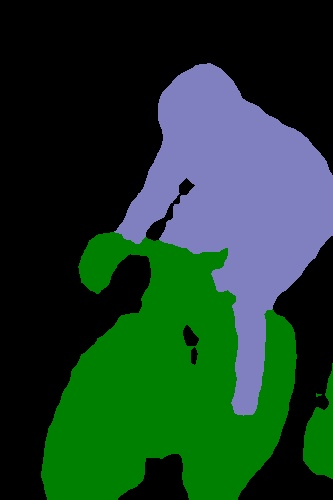
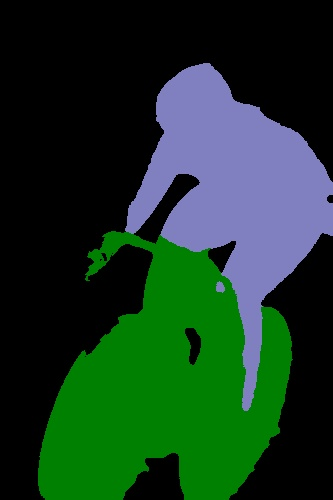
add crf

diff --git a/test.py b/test.py
@@ -3,15 +3,17 @@ import os.path as osp
 import pprint
 import numpy as np
 
+import _init_path
 import torch
 from torch.utils.data import DataLoader
 from torch import nn
 
 from datasets.voc_loader import VOCDataset
 from utils.config import cfg, cfg_from_file
-from utils.tools import random_scale_and_msc, msc_label
+from utils.tools import random_scale_and_msc, msc_label, dense_crf
 from models.deeplab import DeepLab
 from collections import OrderedDict
+import tqdm
 
 
 
@@ -27,7 +29,7 @@ def parse_args():
                     help='vgg16, res101',
                     default='res101', type=str)
     parser.add_argument('--model', dest='model',
-                      help='pretrained model', default="/VOC12_scenes_16000.pth",
+                      help='pretrained model', default="models/7310.pth",
                       type=str)
     args = parser.parse_args()
     return args
@@ -54,13 +56,23 @@ def eval(datalodaer, net, hist):
                 img, img_75, img_50 = img.float(), img_75.float(), img_50.float()
 
             out = net(img, img_75, img_50)[-1]
+            mean = np.array([104.00698793, 116.66876762, 122.67891434]).reshape(1, 1, 3)
             interp = nn.UpsamplingBilinear2d(size=(img.size()[2], img.size()[3]))
-            pred = interp(out).cpu().data[0].numpy()
-            pred = pred[:, :image.shape[0], :image.shape[1]]
-            pred = pred.transpose(1, 2, 0)
-            pred = np.argmax(pred, axis=2)
+            if cfg.TEST.IF_CRF:
+                softmax = nn.Softmax2d()
+                pred = softmax(interp(out)).cpu().numpy()[0]
+                pred = pred[:, :image.shape[0], :image.shape[1]]
+                origin_img = image + mean
+                pred_crf = dense_crf(probs=pred, n_classes=num_classes, img=origin_img.astype('uint8'))
+                pred_crf = np.argmax(pred_crf, axis=2)
 
-            hist += compute_iou(label.numpy()[0, :, :], pred, num_classes)
+                hist += compute_iou(label.numpy()[0, :, :], pred_crf, num_classes)
+            else:
+                pred = interp(out).cpu().numpy()[0]
+                pred = pred[:, :image.shape[0], :image.shape[1]]
+                pred = np.argmax(pred.transpose(1, 2, 0), axis=2)
+
+                hist += compute_iou(label.numpy()[0, :, :], pred, num_classes)
     miou = np.diag(hist) / (hist.sum(1) + hist.sum(0) - np.diag(hist))
     print("Mean iou = %.2f%%" % (np.sum(miou) * 100 / len(miou)))
 
@@ -88,21 +100,21 @@ if __name__ == "__main__":
     if cfg.CUDA: net = net.cuda()
     net.eval()
 
-    for i in range(25, 31):
-        # model = args.model
-        model = 'dmodels/VOC12_%d000.pth' % int(i)
-        checkpoint = torch.load(model)
-        # net.load_state_dict(checkpoint)
-        net.load_state_dict(checkpoint['model'])
-        hist = np.zeros((num_classes, num_classes))
-        print("Model Path%s: " % model)
-        eval(valloader, net, hist)
+    # for i in range(30, 41):
+    #     # model = args.model
+    #     model = 'dmodels/VOC12_%d000.pth' % int(i)
+    #     checkpoint = torch.load(model)
+    #     # net.load_state_dict(checkpoint)
+    #     net.load_state_dict(checkpoint['model'])
+    #     hist = np.zeros((num_classes, num_classes))
+    #     print("Model Path%s: " % model)
+    #     eval(valloader, net, hist)
 
-    # model = args.model
-    # # model = 'dmodels/VOC12_%d000.pth' % int(i)
-    # checkpoint = torch.load(model)
+    model = args.model
+    # model = 'dmodels/VOC12_%d000.pth' % int(i)
+    checkpoint = torch.load(model)
     # net.load_state_dict(checkpoint)
-    # # net.load_state_dict(checkpoint['model'])
-    # hist = np.zeros((num_classes, num_classes))
-    # print("Model Path%s: " % model)
-    # eval(valloader, net, hist)
+    net.load_state_dict(checkpoint['model'])
+    hist = np.zeros((num_classes, num_classes))
+    print("Model Path: %s " % model)
+    eval(valloader, net, hist)

diff --git a/lib/utils/tools.py b/lib/utils/tools.py
@@ -6,6 +6,7 @@ import numpy as np
 import torch
 
 from utils.config import cfg
+import pydensecrf.densecrf as dcrf
 
 def random_scale_and_msc(image, lbl, fixed_scales, scales, aug=True):
     """
@@ -31,7 +32,6 @@ def random_scale_and_msc(image, lbl, fixed_scales, scales, aug=True):
 
     return img, img_75, img_50
 
-
 def msc_label(lbl, s1, s2, s3):
     lbl[lbl == 255] = 0
 
@@ -45,7 +45,6 @@ def msc_label(lbl, s1, s2, s3):
     label_50 = torch.from_numpy(np.array(label_50))
 
     return label, label_75, label_50
-
 
 def adjust_learning_rate(optimizer, iter, lr):
     """
@@ -68,6 +67,55 @@ def adjust_learning_rate(optimizer, iter, lr):
         return cfg.TRAIN.LEARNING_RATE * s
     else:
         return 0.1 * lr
+
+# use code in https://github.com/DrSleep/tensorflow-deeplab-resnet/
+def dense_crf(probs, n_classes, img=None, n_iters=10,
+              sxy_gaussian=(1, 1), compat_gaussian=4,
+              kernel_gaussian=dcrf.DIAG_KERNEL,
+              normalisation_gaussian=dcrf.NORMALIZE_SYMMETRIC,
+              sxy_bilateral=(49, 49), compat_bilateral=5,
+              srgb_bilateral=(13, 13, 13),
+              kernel_bilateral=dcrf.DIAG_KERNEL,
+              normalisation_bilateral=dcrf.NORMALIZE_SYMMETRIC):
+    """DenseCRF over unnormalised predictions.
+       More details on the arguments at https://github.com/lucasb-eyer/pydensecrf.
+
+    Args:
+      probs: class probabilities per pixel.
+      img: if given, the pairwise bilateral potential on raw RGB values will be computed.
+      n_iters: number of iterations of MAP inference.
+      sxy_gaussian: standard deviations for the location component of the colour-independent term.
+      compat_gaussian: label compatibilities for the colour-independent term (can be a number, a 1D array, or a 2D array).
+      kernel_gaussian: kernel precision matrix for the colour-independent term (can take values CONST_KERNEL, DIAG_KERNEL, or FULL_KERNEL).
+      normalisation_gaussian: normalisation for the colour-independent term (possible values are NO_NORMALIZATION, NORMALIZE_BEFORE, NORMALIZE_AFTER, NORMALIZE_SYMMETRIC).
+      sxy_bilateral: standard deviations for the location component of the colour-dependent term.
+      compat_bilateral: label compatibilities for the colour-dependent term (can be a number, a 1D array, or a 2D array).
+      srgb_bilateral: standard deviations for the colour component of the colour-dependent term.
+      kernel_bilateral: kernel precision matrix for the colour-dependent term (can take values CONST_KERNEL, DIAG_KERNEL, or FULL_KERNEL).
+      normalisation_bilateral: normalisation for the colour-dependent term (possible values are NO_NORMALIZATION, NORMALIZE_BEFORE, NORMALIZE_AFTER, NORMALIZE_SYMMETRIC).
+
+    Returns:
+      Refined predictions after MAP inference.
+    """
+    c, h, w = probs.shape
+
+    probs = probs.copy(order='C')  # Need a contiguous array.
+
+    d = dcrf.DenseCRF2D(w, h, n_classes)  # Define DenseCRF model.
+    U = -np.log(probs)  # Unary potential.
+    U = U.reshape((n_classes, -1))  # Needs to be flat.
+    d.setUnaryEnergy(U)
+    d.addPairwiseGaussian(sxy=sxy_gaussian, compat=compat_gaussian,
+                          kernel=kernel_gaussian, normalization=normalisation_gaussian)
+
+    if img is not None:
+        assert (img.shape[0:2] == (h, w)), "The image height and width must coincide with dimensions of the logits."
+        d.addPairwiseBilateral(sxy=sxy_bilateral, compat=compat_bilateral,
+                               kernel=kernel_bilateral, normalization=normalisation_bilateral,
+                               srgb=srgb_bilateral, rgbim=img.copy(order='C'))
+    Q = d.inference(n_iters)
+    preds = np.array(Q, dtype=np.float32).reshape((n_classes, h, w)).transpose(1, 2, 0)
+    return preds
 
 
 

diff --git a/demo.py b/demo.py
@@ -8,9 +8,10 @@ import torch
 from torch.utils.data import DataLoader
 from torch import nn
 
+import _init_path
 from datasets.voc_loader import VOCDataset
 from utils.config import cfg, cfg_from_file
-from utils.tools import random_scale_and_msc
+from utils.tools import random_scale_and_msc, dense_crf
 from models.deeplab import DeepLab
 
 # colour map
@@ -38,7 +39,7 @@ def parse_args():
                     help='vgg16, res101',
                     default='res101', type=str)
     parser.add_argument('--model', dest='model',
-                      help='pretrained model', default="models/VOC12_20000.pth",
+                      help='pretrained model', default="models/7189.pth",
                       type=str)
     parser.add_argument('--gpu', dest='gpu',
                         help='if use gpu when test single image', default=False,
@@ -59,10 +60,13 @@ def vis(pred, num_classes):
     cv2.waitKey(0)
 
 
-def test_single_image(image, net, args):
+def test_single_image(origin_img, net, args, num_classes):
+    mean = np.array([104.00698793, 116.66876762, 122.67891434]).reshape(1, 1, 3)
+    img = origin_img - mean
+    img = img[np.newaxis, :, :, :]
     with torch.no_grad():
         # image, label = data_iter.next()
-        img, img_75, img_50 = random_scale_and_msc(image, 0, cfg.TRAIN.FIXED_SCALES, cfg.TRAIN.SCALES, False)
+        img, img_75, img_50 = random_scale_and_msc(img, 0, cfg.TRAIN.FIXED_SCALES, cfg.TRAIN.SCALES, False)
         if args.gpu:
             img, img_75, img_50 = img.cuda().float(), img_75.cuda().float(), img_50.cuda().float()
         else:
@@ -70,10 +74,11 @@ def test_single_image(image, net, args):
 
         out = net(img, img_75, img_50)[-1]
         interp = nn.UpsamplingBilinear2d(size=(img.size()[2], img.size()[3]))
-        pred = interp(out).cpu().data[0].numpy()
-        pred = pred.transpose(1, 2, 0)
-        pred = np.argmax(pred, axis=2)
-        return pred
+        softmax = nn.Softmax2d()
+        pred = softmax(interp(out)).cpu().numpy()[0]
+        pred_crf = dense_crf(probs=pred, n_classes=num_classes, img=origin_img.astype('uint8'))
+        pred_crf = np.argmax(pred_crf, axis=2)
+        return pred_crf
 
 
 if __name__ == "__main__":
@@ -90,9 +95,6 @@ if __name__ == "__main__":
     net.eval()
 
     img = cv2.imread(args.img).astype(float)
-    mean = np.array([104.00698793, 116.66876762, 122.67891434]).reshape(1, 1, 3)
-    img = img - mean
-    img = img[np.newaxis, :, :, :]
 
-    pred = test_single_image(img, net, args)
+    pred = test_single_image(img, net, args, num_classes)
     vis(pred, num_classes)

diff --git a/trainval.py b/trainval.py
@@ -182,19 +182,18 @@ if __name__ == "__main__":
                 }
                 logger.add_scalars("loss_lr", info, iter)
 
-        if iter % args.checkpoint_interval == 0 and iter > 10000:
+        if iter % args.checkpoint_interval == 0 and iter > 100000:
             save_path = osp.join(args.save_dir, 'VOC12_'+str(iter)+'.pth')
-            torch.save({'optimizer': optimizer.state_dict(),
-                        'model': net.state_dict(),
+            torch.save({'model': net.state_dict(),
                         'iter': iter,
                         'lr': lr
                         }, save_path)
+            # torch.save({'model': net.state_dict(),
+            #             'iter': iter,
+            #             'lr': lr,
+            #             'optimizer': optimizer.state_dict()
+            #             }, save_path)
             print("save model: {}".format(save_path))
-            # if args.eval:
-            #     hist = np.zeros((num_classes, num_classes))
-            #     eval(val_loader, net, hist)
-
-
 
 
     if args.use_tfboard:

diff --git a/readme.md b/readme.md
@@ -1,5 +1,5 @@
 # Deeplab v2 with pytorch
-It is an reimplement of [deeplab v2](https://arxiv.org/abs/1606.00915) with pytorch when I learn pytorch.  I get a validation performance of XX.XX% IoU( vs 75.54% in the paper) on the PASCAL VOC2012.
+It is an reimplement of [deeplab v2](https://arxiv.org/abs/1606.00915) with pytorch when I learn pytorch.  I get a validation performance of 74.47% IoU(73.10% before DenseCRF) on the PASCAL VOC2012.
 
 ## Acknowledge
 During finishing this work, I have referenced a lot of gread work, including:
@@ -8,6 +8,7 @@ During finishing this work, I have referenced a lot of gread work, including:
 - [jwyang/faster-rcnn.pytorch](https://github.com/jwyang/faster-rcnn.pytorch)
 
 Among them, isht7's work is the main reference source and I learn from his code about how to define the net and compute the mIoU, etc. In fact, his work is very complete except for denseCRF. If you use python 2, I recommend you to his github. My work supports **python 3** and **Pytorch 0.4.0**.
+DrSleep's work gives a good example about how to use pydensecrf as well as visulization.
 
 ## Installing and Preparing for data/model
 step 0: **Download**
@@ -73,19 +74,21 @@ Testing your trained model could be done by running:
 ```
 python test.py --model=path/to/your/model
 ```
-You can see the final result on PASCAL VOC2012 after a while.
+You can see the final result on PASCAL VOC2012 after a while. If you want to use denseCRF, change TEST.IF_CRF in `config.py`. However, it may cost you about 40-50 min because denseCRF is 
 
 ### TensorboardX
 Monitor your training process with tensorboardX. Run:
 ```
 tensorboard --logdir=$DEEPLAB_V2_PYTORCH/logs/loss_lr/lr --port=7001
 ```
-Then open your firefox or chrome, and visit localhost:7001. You can found similar results as follow:
+Then open your firefox or chrome, and visit localhost:7001. 
 
+## Result
+This work including many tricks in paper, including: multi-scale inputs, models pretrained on MS-COCO for initization, data augmentation and ASPP-L. However, I only achieve 74.47% mIoU(73.31% before denseCRF, with 2e-5 learning rate and 40000 iters). And caffe model converted by isht7 can achieve 75.54% before DenseCRF. Best result in paper is 77.69% with denseCRF. How to achieve such a good performance is left as a future work.
 
 ## Todo
-[ ] Reproduce the results in paper(75.54%)
+[x] DenseCRF
 
-[ ] DenseCRF
+[ ] Reproduce the results in paper(75.54%)
 
 [ ] Support Pytorch 0.4.1+
